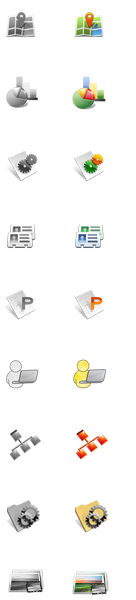
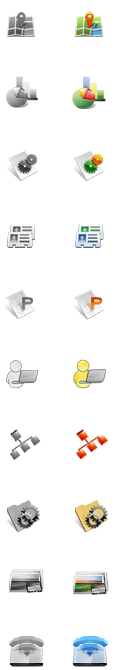
*** empty log message ***

diff --git a/INORS/Codebase/INORS/prism-web/src/main/webapp/themes/acsi/css/768.css b/INORS/Codebase/INORS/prism-web/src/main/webapp/themes/acsi/css/768.css
@@ -240,6 +240,7 @@ h2 {
 			.shortcut-settings,		span.shortcut-settings	{ background-position: 0 -420px; }
 			.shortcut-notes,		span.shortcut-notes		{ background-position: 0 -490px; }
 			.shortcut-content,		span.shortcut-content	{ background-position: 0 -560px; }
+			.shortcut-reset,        span.shortcut-reset	    { background-position: 0 -630px; }
 			#shortcuts > li > a:before,
 			#shortcuts > li:after {
 				display: block;
@@ -351,6 +352,7 @@ h2 {
 				a.shortcut-settings:before	{ background-position: -70px -425px; }
 				a.shortcut-notes:before		{ background-position: -70px -495px; }
 				a.shortcut-content:before	{ background-position: -70px -565px; }
+				a.shortcut-reset:before	    { background-position: -70px -635px; }
 
 #menu {
 	position: fixed;

diff --git a/INORS/Codebase/INORS/prism-web/src/main/webapp/themes/acsi/css/style.css b/INORS/Codebase/INORS/prism-web/src/main/webapp/themes/acsi/css/style.css
@@ -2362,6 +2362,7 @@ li.message-menu {
 			.shortcut-settings	{ background-position: -66px -425px; }
 			.shortcut-notes		{ background-position: -66px -495px; }
 			.shortcut-content	{ background-position: -66px -565px; }
+			.shortcut-reset		{ background-position: -66px -635px; }
 
 			span.shortcut-dashboard	{ background-position: 1px -5px; }
 			span.shortcut-messages	{ background-position: 1px -75px; }
@@ -2372,6 +2373,7 @@ li.message-menu {
 			span.shortcut-settings	{ background-position: 1px -425px; }
 			span.shortcut-notes		{ background-position: 1px -495px; }
 			span.shortcut-content	{ background-position: 1px -565px; }
+			span.shortcut-reset		{ background-position: 1px -635px;}
 
 /* Sidebar/drop-down menu */
 #menu {
